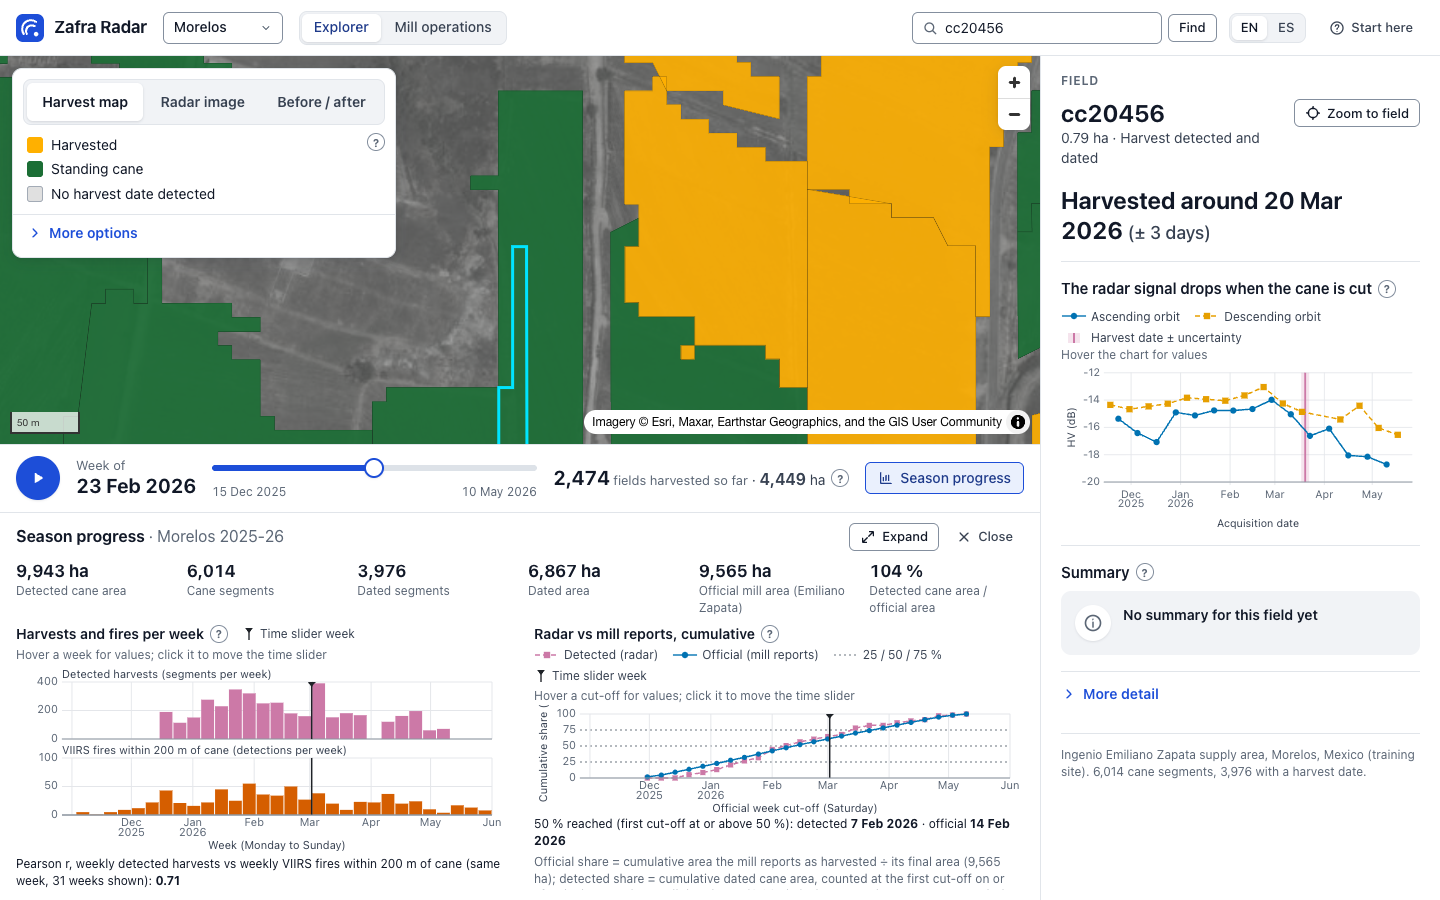
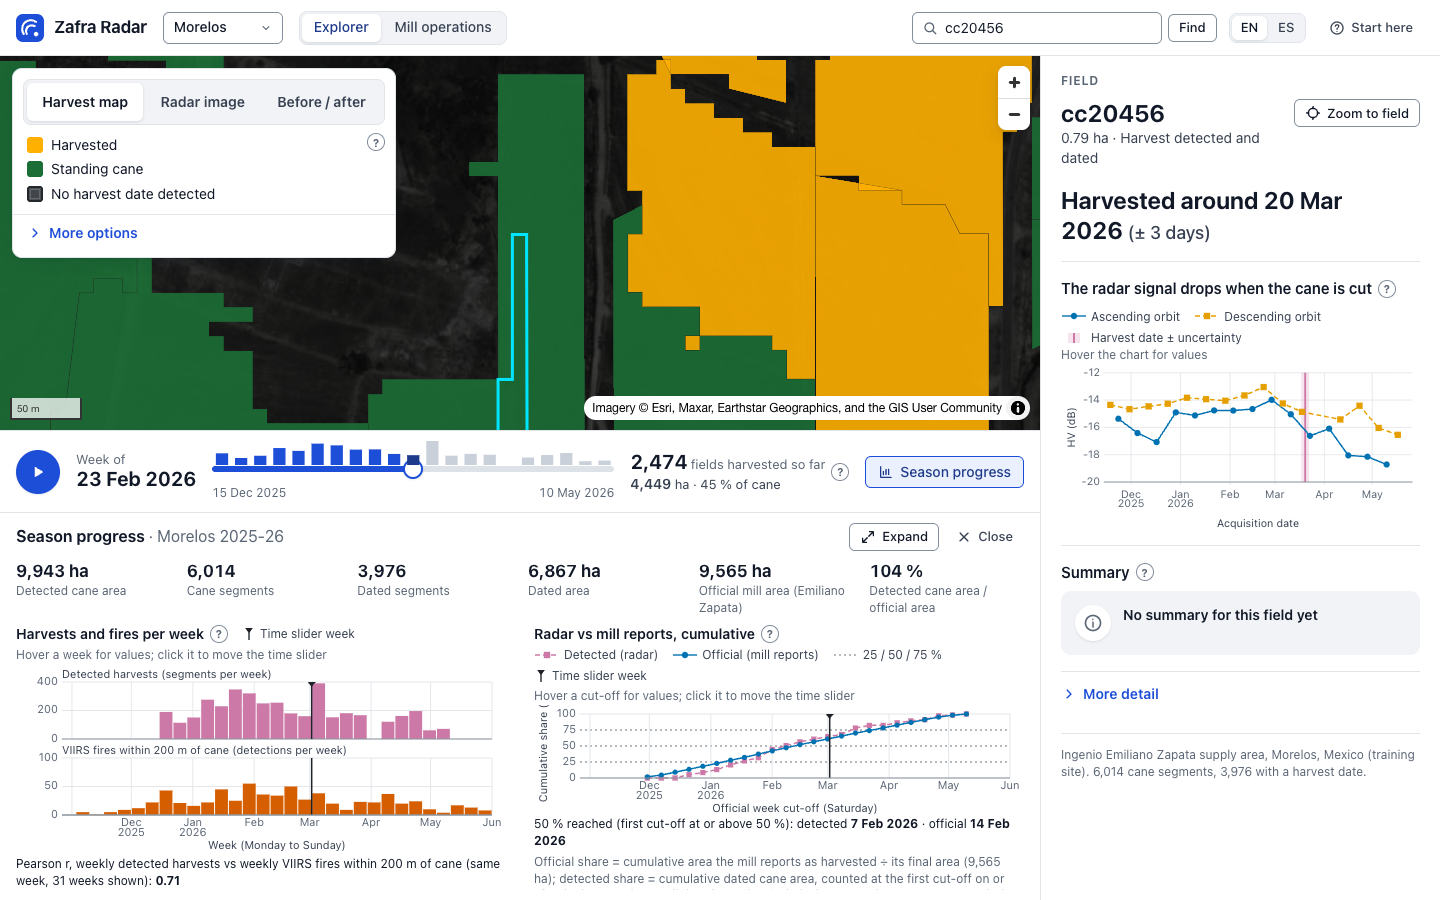
Document the map canvas and motion rules and refresh the screenshots
Record the dark backdrop, colour-blind checks and motion rules in
DESIGN.md, update the README status, add a journal entry and replace the
screenshots with the new explorer.

Changed region(s): [[0.0, 0.0622, 0.75, 0.56], [0.5625, 0.1867, 0.5938, 0.2178], [0.0, 0.1867, 0.0312, 0.2178]]

diff --git a/docs/DESIGN.md b/docs/DESIGN.md
@@ -18,13 +18,10 @@ interface tokens.
 
 **Harvest map colours** (`season.ts`): two states, standing cane `#1b6e35` (dark green, CIELAB
 L* 41) and harvested `#ffb000` (amber, L* 77), drawn at 0.9 opacity; fields with no harvest
-date `#d6d6d6` (light neutral grey) at 0.75. Checked by simulating protanopia, deuteranopia and
-tritanopia (Machado et al. 2009, full severity) on the colours as drawn over the dimmed basemap
-and over the plain background: standing against harvested differs by CIEDE2000 ≥ 26 and
-ΔL* ≥ 25 in every case, so the two states stay apart by lightness alone. The explorer's
-satellite basemap is desaturated and flattened to mid greys (`BASEMAP_DIM`, `basemap.ts`) and
-its plain background is a matching mid grey (`#8f9297`), so the map looks alike with and
-without the satellite image. The plasma ramp (colour by harvest date) is a More options choice.
+date are subdued, a faint `#c9ced6` fill at 0.18 and a thin outline of the same colour at 0.2,
+so they read as context rather than gaps. The latest week's harvests show in `#fff4cc` (pale
+warm, L* 96) while the timeline advances (see Motion). The plasma ramp (colour by harvest
+date) is a More options choice.
 
 | Token | Value | Use |
 |---|---|---|
@@ -46,6 +43,52 @@ text), **14 (body, the minimum for running text)**, 16 (section titles), 20 (key
 panels), 999 (pills). **Elevation:** `--shadow-1` (cards), `--shadow-2` (panels floating over
 the map), `--shadow-3` (tooltips, the guide).
 
+## Map canvas
+
+The explorer's map is a dark, quiet backdrop under light interface panels: the satellite
+image greyed and darkened (`BASEMAP_DIM`, `basemap.ts`: saturation −0.9, brightness 0–0.3,
+contrast −0.1, about L* 5–35) over a plain `#24272b`, so the map looks alike with and without
+the satellite image (offline). The segment fill has no anti-aliased edge (overlapping faint
+edges added up to a light web); a hairline outline draws the edges.
+
+Colours checked by simulating protanopia, deuteranopia and tritanopia (Machado et al. 2009,
+full severity) as drawn at their opacity over three backdrops (plain `#24272b`, the darkest
+image tone `#16181b`, a light image tone `#4a4e54`):
+
+| Pair | CIEDE2000 (min over normal, protan, deutan, tritan) | ΔL* (min) |
+|---|---|---|
+| standing vs harvested | 29.9 | 28.0 |
+| harvested vs backdrop | 48.0 | — |
+| standing vs backdrop | 18.8 (light image tone), 23.6 (plain) | 5.7 (light tone), 21.6 (plain) |
+| highlight vs harvested | 21.9 | 21.1 |
+| no date vs backdrop / vs standing | 8.2 / 18.3 | — |
+
+The two states stay apart by lightness alone in every simulation. Standing cane is closest to
+the backdrop on the lightest image tones; the fields' dark hairline edge separates them there.
+
+**Opening view.** The camera fits the extent of the site's cane fields (measured once from the
+loaded tiles) with 24 px padding, 56 px on the right for the zoom buttons, so the fields fill
+the map at 1280×720 and 1440×900; the map panel overlaps only the empty top-left corner.
+
+## Motion
+
+Motion carries the message and nothing else; every piece is off with `prefers-reduced-motion`.
+
+* **First visit:** the season plays once from the first week (600 ms a week, about 13 s for
+  Morelos and 6 s for Brazil) when the map is ready, and stops at the end or on any pointer,
+  key or wheel input (on the play button the click pauses, as usual). Remembered in
+  `localStorage` (`zafra.autoplay.seen`); not with reduced motion and not in presenter mode
+  (`PRESENTER`, `?present=1`, the single flag in `App.tsx`).
+* **Weekly highlight:** when the timeline moves forward, the fields harvested in the week it
+  closes show in the highlight at once, hold 150 ms, then fade over 400 ms into the harvested
+  colour underneath (a native MapLibre opacity transition on one extra fill layer), all within
+  one play step. Not when going back, over radar imagery, or with reduced motion.
+* **Numbers:** the "Season so far" figures ease to each new value in 350 ms (cubic ease-out,
+  tabular figures, so the digits do not shift).
+* **Divider hint:** entering Before / after, the divider starts in the middle and sways once
+  (±6 % of the width, 1.1 s, after 0.5 s); a drag stops it.
+* **Camera:** after the first paint of a site, a 500 ms ease to the cane extent.
+
 ## Layout
 
 * **Top bar** (56 px, white): product name, site select, the Explorer / Mill operations
@@ -53,9 +96,11 @@ the map), `--shadow-3` (tooltips, the guide).
   whole interface) and the "Start here" button. The basemap and API status labels stay in the
   page for the headless checks but are not shown.
 * **Explorer:** map in the middle; the **map panel** floating top-left; **detail panel** on the
-  right (400 px); the **timeline bar** docked under the map (play, "Week of" the Monday, slider,
-  fields and hectares harvested so far, season progress button); the **season panel** is a
-  bottom drawer under the timeline (40 %, or about 75 % of the window expanded).
+  right (400 px); the **timeline bar** docked under the map (play, "Week of" the Monday, the
+  slider with the season's weekly harvest counts drawn as bars along its track, the weeks
+  played in the accent, the current one darker; fields harvested so far, then their hectares
+  and share of the mapped cane; season progress button); the **season panel** is a bottom
+  drawer under the timeline (40 %, or about 75 % of the window expanded).
 * **Three map views**, one click each on the map panel's segmented control:
   1. **Harvest map** (default): standing green, harvested amber, no harvest date grey, over the
      dimmed basemap; play turns the fields amber week by week.
@@ -63,12 +108,23 @@ the map), `--shadow-3` (tooltips, the guide).
      date, following play; no outlines; legend "Bright: standing cane", "Dark: cut cane or bare
      soil" (from the library's legend text) and the image date.
   3. **Before / after**: the first against the last acquisition with the divider, labelled
-     "Before harvest · date" and "After harvest · date"; no outlines, no other controls.
+     "Before harvest · date" and "After harvest · date"; no outlines, no other controls. The
+     divider has a round drag handle (40 px) in the middle of its height on a 32 px hit strip.
+     The labels sit near the top, each beside the divider on its own side with an arrow
+     pointing to that side, both on one row when they can, moved down below the map panel,
+     the zoom buttons or the credit when they would cover them. On a narrow side a label wraps
+     to two lines (text, date); when even that does not fit (divider within about 15 % of an
+     edge, or More options open over the left side) it is pinned inside the map edge and may
+     cross the divider, never hidden or overlapping the other label.
 * **More options** (closed by default) holds everything else: colour by harvest date, the
   radar product, dates, follow time slider, change layer, opacity, outlines, the library's full
   legend and credit, reference fields and alerts.
-* **Nothing selected:** the site's three key numbers (cane hectares, fields, fields with a
-  harvest date) and one line inviting to press play or click a field.
+* **Nothing selected:** the site's name and season, its subtitle (the site's role, e.g.
+  "training site", is in the "?" beside it, not in the visible text), a **Season so far**
+  block that follows the timeline (the harvested share of the mapped cane area as a figure
+  and a bar, fields and hectares harvested so far, this week's fields and hectares), the
+  site's three key numbers as compact rows (cane hectares, fields, fields with a harvest
+  date), and one line inviting to press play or click a field.
 * **Field detail:** one sentence in large type ("Harvested around 21 Dec 2025 (± 6 days)" or
   "No harvest date detected"), then one chart, the HV radar signal titled "The radar signal
   drops when the cane is cut", and the summary. Date confidence, probabilities, HV drop,
@@ -111,6 +167,8 @@ the map), `--shadow-3` (tooltips, the guide).
   `aria-valuetext`; Play is a button; list rows take Enter; the guide and tooltips close with
   Escape.
 * Every icon-only button has an `aria-label`; groups have `role="group"` and a label.
-* `prefers-reduced-motion`: no transitions or shimmer, map moves without animation.
-* Motion is short (150 ms) and only on opacity, colour and small transforms.
+* `prefers-reduced-motion`: no transitions or shimmer, map moves without animation, no
+  first-visit autoplay, weekly highlight, number easing or divider hint.
+* Interface motion is short (150 ms) and only on opacity, colour and small transforms; the
+  map's motion follows the rules under Motion above.
 * No NASA or agency logos or insignia anywhere; the favicon is a neutral radar mark.

diff --git a/README.md b/README.md
@@ -48,17 +48,23 @@ What exists right now:
   Brazil) that refits the map, a weekly time slider with play/pause over the site's harvest
   dates ("Week of" its Monday) and the fields harvested so far (`/weekly`) with their hectares
   (`/ops/{site}/series`), and three views, one click each: **Harvest map** (harvested amber,
-  standing green, no harvest date grey, over a dimmed basemap; colour by harvest date under More
-  options), **Radar image** (the NISAR HV image following the timeline) and **Before / after**
-  (first against last acquisition with a divider); a legend of at most three entries;
+  standing green, no harvest date subdued, over a dark basemap; while the timeline advances the
+  week's harvests light up and fade into amber; colour by harvest date under More options),
+  **Radar image** (the NISAR HV image following the timeline) and **Before / after** (first
+  against last acquisition with a draggable divider, labelled on each side); a legend of at
+  most three entries. The map opens on the extent of the site's cane fields; on a first visit
+  the season plays once by itself (not with reduced motion, not with `?present=1`); the
+  slider draws the season's weekly harvests along its track, and the timeline gives the share
+  of the mapped cane harvested;
 * the **field detail panel**: clicking a segment loads `/segments/{site}/{segment_id}` into
   the side panel: area, status and "Zoom to field"; one sentence, "Harvested around <date>
   (± n days)" or "No harvest date detected"; the HV radar signal of both orbits with the
   harvest date band; the field summary with an EN / ES toggle and its source. "More detail"
   holds the date confidence, the optical and radar cane probabilities, HV drop and minimum
   coherence, HV, HH and coherence charts on one date axis with nearby fires, the fire list
-  within 200 m and the field's alerts; with nothing selected the panel shows the site's three
-  key numbers;
+  within 200 m and the field's alerts; with nothing selected the panel shows "Season so far"
+  (share of the mapped cane area harvested, fields and hectares so far, this week's harvest),
+  following the timeline, and the site's three key numbers;
 * the **season progress panel** ("Season progress" on the timeline bar under the map) opens as a
   drawer across the bottom of the map, from `/sites` and `/weekly/{site}`: cane and dated area and segment counts (and,
   for Morelos, the official mill area and detected area as a share of it); weekly detected

diff --git a/docs/JOURNAL.md b/docs/JOURNAL.md
@@ -182,3 +182,18 @@ Zacatepec). Newest entry last. Times are local (America/Mexico_City).
 - EN / ES switch for the whole interface; dates day first (21 Dec 2025 / 21 dic 2025).
 - Headless Chrome at 1280×720 and 1440×900, both sites and languages, offline and the weekly
   report (2 pages, Letter and A4): 487 checks pass; build passes; api suite 110 passed.
+
+## 2026-11-15 01:25 CST
+
+- Explorer first impression, appearance and motion only (no API, calculation or feature
+  change): dark desaturated basemap under light panels; no-date fields a faint fill and thin
+  outline; standing / harvested colours kept (simulated CVD CIEDE2000 ≥ 29.9 on the dark map).
+- First visit plays the season once (stops at the end or on any input; not on return
+  visits, with reduced motion or `?present=1`); the week's harvests light up and fade into amber.
+- Timeline draws weekly harvests along the slider and the share of mapped cane; "Season so
+  far" block in the side panel; camera fits the cane extent; divider labels placed clear of
+  the panel, zoom buttons and credit, with a drag handle and one hint sway.
+- Headless Chrome, 1280×720 and 1440×900, both sites and languages: 487 regression and 475
+  new checks pass; weekly report 2 pages (Letter, A4); build passes; api suite 110 passed.
+- Play frames: the weekly highlight is spread across the whole supply area each week (weekly
+  centroid moves 0.5-4 km against an 8-12 km spread), so it reads as a fill-in, not a wave.
